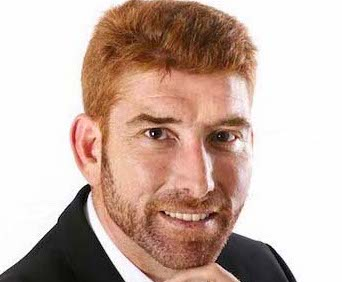
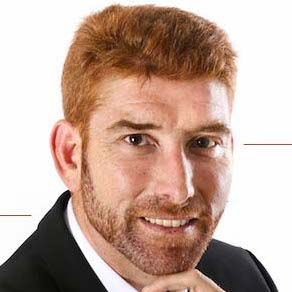
Màj 1/2 sur le retour de ma soutenance

diff --git a/css/style.css b/css/style.css
@@ -16,8 +16,6 @@ aside {
   background-color: #B3E5FC;
 }
 
-
-
 main {
   width: 68%;
   padding: 15px 55px 30px 60px;
@@ -38,13 +36,14 @@ div.paragraphe {
 }
 
 img {
-  max-width: 66%;
-  border-radius: 60%;
+  max-width: 83%;
+  height: auto;
+  border-radius: 100%;
   display: block;
     margin-left: auto;
     margin-right: auto;
-    margin-top: 50px;
-    margin-bottom: 50px;
+    margin-top: 55px;
+    margin-bottom: 55px;
 }
 
 div.titleside {
@@ -264,6 +263,13 @@ div.block-date-text-last {
 
 body {
   margin: auto;
+  height: auto;
+  width: auto;
+  border: 0px;
+}
+
+html {
+  background-color: #B3E5FC;
 }
 
   .flexmain {
@@ -278,32 +284,28 @@ body {
     width: 100%;
   }
 
-  .imgnomar{
-    width: 60%;
-    margin-bottom: 25px;
-    margin-top: 25px;
-    border-radius: 80%;
+  img.ignomar {
+    width: 63%;
+    height: auto;
+    border-radius: 100%;
+  }
+  figure {
+    margin-top: 0px;
+    margin-bottom: 0px;
   }
 
   div.titleside{
-    margin-right: 30px;
-    margin-left: 30px;
-    border-radius: 28%;
+    margin-right: 25px;
+    margin-left: 25px;
   }
   h3.blow {
-    font-size: 18px;
+    font-size: 20px;
     margin-top: 6px;
     margin-bottom: 6px;
   }
 
   .flex-section {
     display: flex;
-  }
-
-  .media-section-pic {
-    display: flex;
-    align-items: center;
-    justify-content: center;
   }
 
   div.paramedia{
@@ -428,8 +430,15 @@ body {
 @media screen
   and (min-width:481px)
   and (max-width:800px){
+
     body {
       margin: auto;
+      height: auto;
+      width: auto;
+      border: 0px;
+    }
+    html {
+      background-color: #B3E5FC;
     }
 
       .flexmain {
@@ -444,18 +453,11 @@ body {
         width: 100%;
       }
 
-      .imgnomar{
-        width: 100%;
-        margin-bottom: 35px;
-        margin-top: 35px;
-        border-radius: 80%;
-      }
-
       div.titleside{
         margin-right: 25px;
         margin-left: 25px;
-        border-radius: 28%;
       }
+
       h3.blow {
         font-size: 22px;
         margin-top: 6px;
@@ -464,12 +466,6 @@ body {
 
       .flex-section {
         display: flex;
-      }
-
-      .media-section-pic {
-        display: flex;
-        align-items: center;
-        justify-content: center;
       }
 
       div.paramedia{

diff --git a/index.html b/index.html
@@ -12,9 +12,13 @@
   <div class="flexmain">
 
     <aside class="aside">
-      <section class="media-section-pic">
-        <a href="images/mypic.jpg"><img class="imgnomar" src="images/mypic_mini.jpg" alt="my image profile" title="zoom"/></a>
-      </section>
+
+      <section>
+      <figure>
+      <a href="images/mypic.jpg"><img class="ignomar" src="images/mypic_mini.jpg" alt="my image profile" title="On Click"/></a>
+    </figure>
+    </section>
+
 
       <section>
         <div class="titleside">
